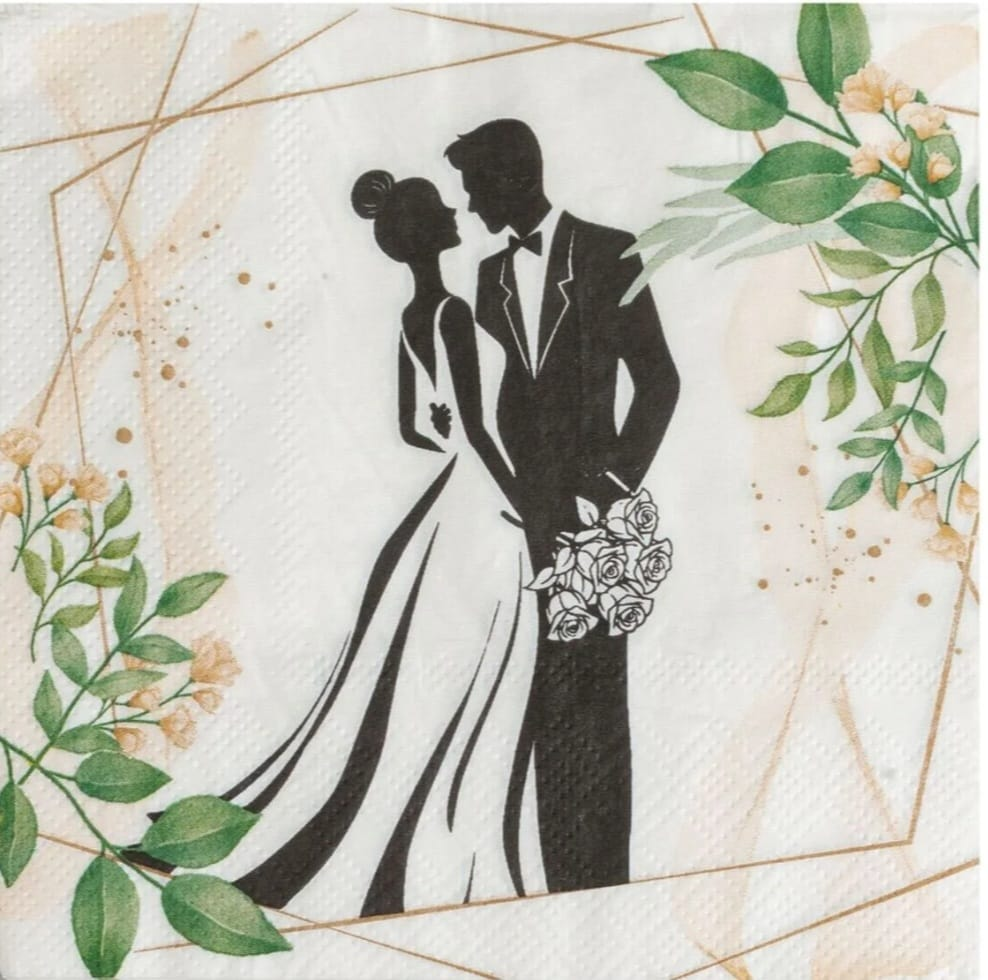
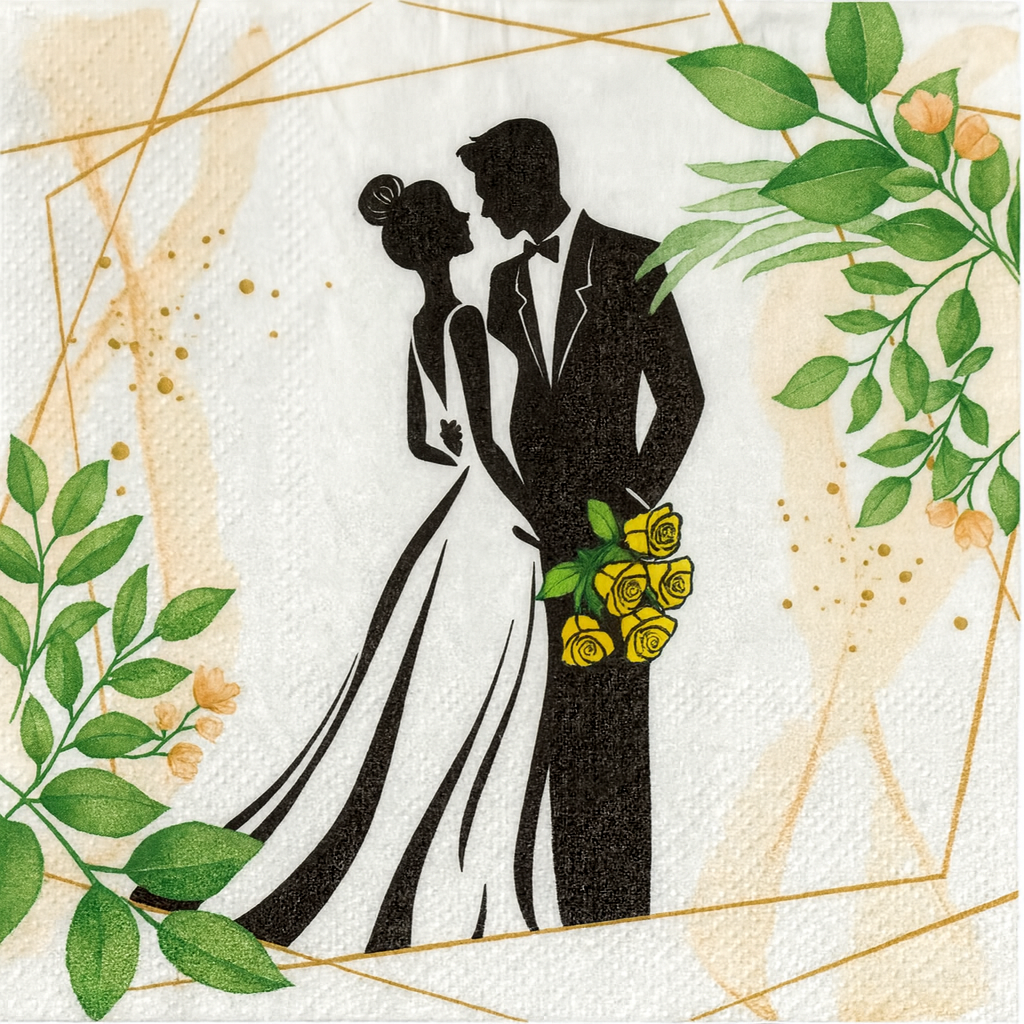
Deploy5x

diff --git a/docs/index.html b/docs/index.html
@@ -15,7 +15,7 @@
   </style>
   <base href="/WeddingInvitation/">
   <meta name="viewport" content="width=device-width, initial-scale=1">
-  <link rel="icon" type="image/x-icon" href="fav-icon.png">
+  <link rel="icon" type="image/x-icon" href="fav-icon.jpg">
   <link rel="preconnect" href="https://fonts.googleapis.com">
 <link rel="preconnect" href="https://fonts.gstatic.com" crossorigin>
 <style>@font-face{font-family:'Updock';font-style:normal;font-weight:400;font-display:swap;src:url(https://fonts.gstatic.com/s/updock/v7/nuF4D_3dVZ70UI9ihLi2200.woff2) format('woff2');unicode-range:U+0102-0103, U+0110-0111, U+0128-0129, U+0168-0169, U+01A0-01A1, U+01AF-01B0, U+0300-0301, U+0303-0304, U+0308-0309, U+0323, U+0329, U+1EA0-1EF9, U+20AB;}@font-face{font-family:'Updock';font-style:normal;font-weight:400;font-display:swap;src:url(https://fonts.gstatic.com/s/updock/v7/nuF4D_3dVZ70UI9ihbi2200.woff2) format('woff2');unicode-range:U+0100-02BA, U+02BD-02C5, U+02C7-02CC, U+02CE-02D7, U+02DD-02FF, U+0304, U+0308, U+0329, U+1D00-1DBF, U+1E00-1E9F, U+1EF2-1EFF, U+2020, U+20A0-20AB, U+20AD-20C0, U+2113, U+2C60-2C7F, U+A720-A7FF;}@font-face{font-family:'Updock';font-style:normal;font-weight:400;font-display:swap;src:url(https://fonts.gstatic.com/s/updock/v7/nuF4D_3dVZ70UI9ii7i2.woff2) format('woff2');unicode-range:U+0000-00FF, U+0131, U+0152-0153, U+02BB-02BC, U+02C6, U+02DA, U+02DC, U+0304, U+0308, U+0329, U+2000-206F, U+20AC, U+2122, U+2191, U+2193, U+2212, U+2215, U+FEFF, U+FFFD;}</style>
